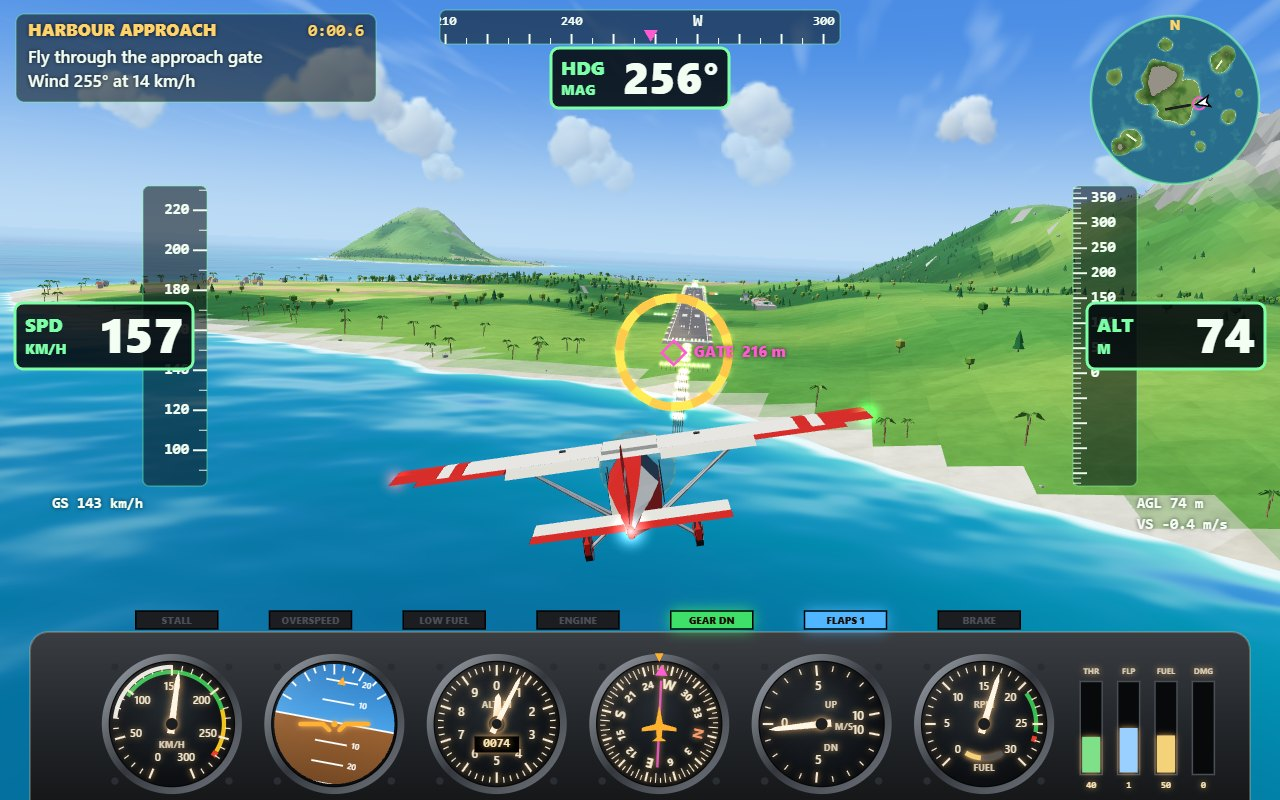
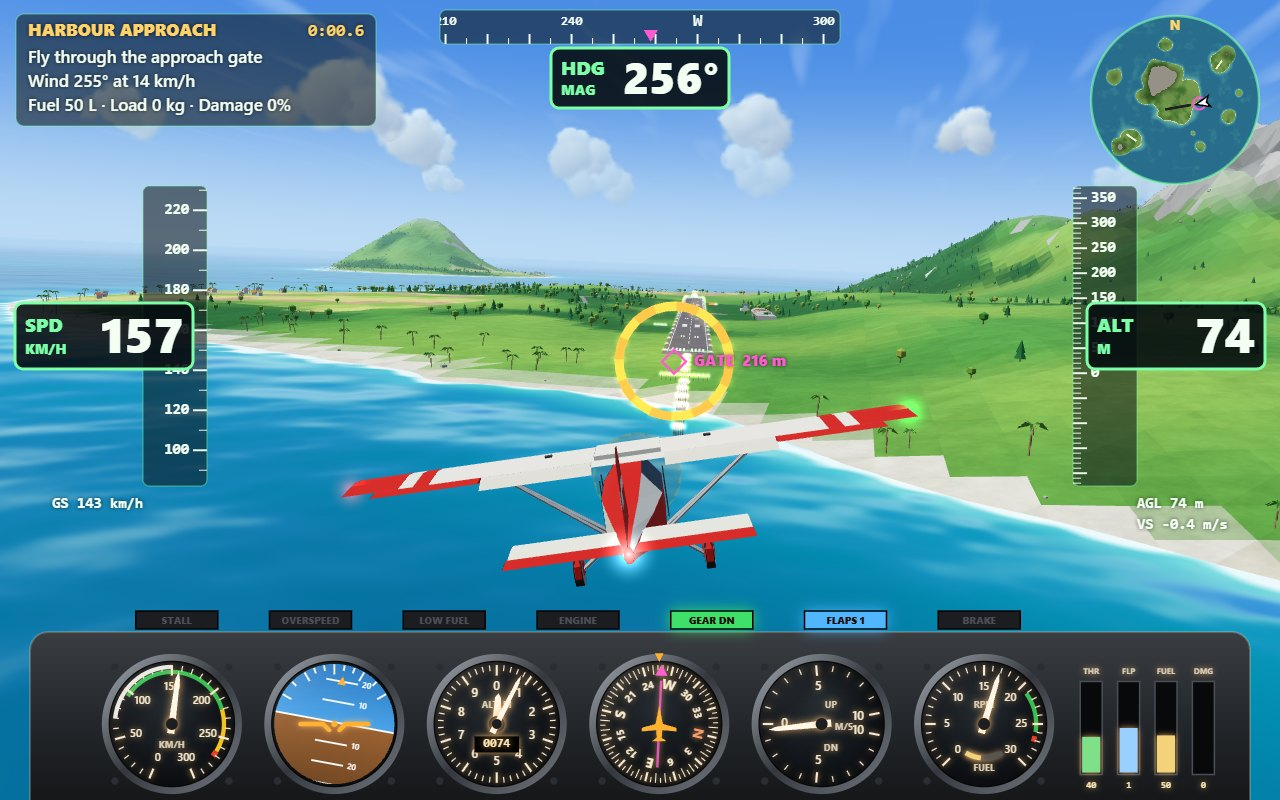
Four in-flight screenshots: approach, crosswind cockpit final, supply drop, ring course
Cockpit view draws the cream-topped cowling and prop disc from a raised eye;
mission card adds fuel, load and damage; closer chase camera; larger cargo
parachute; landing autopilot moves to tools/ (only the flight sim uses it).

diff --git a/game/src/shots.js b/game/src/shots.js
@@ -1,44 +1,47 @@
 // Screenshot scenes behind ?shot=<name>: a real mission placed and stepped forward deterministically.
-import { DEG, quatFromAttitude, quatRotate, scale } from './math3d.js';
+import { DEG, attitudeOf, quatFromAttitude, quatRotate, scale } from './math3d.js';
 import { MISSIONS, approachGeometry, glidePathPoint } from './mission-catalog.js';
-import { landingAutopilot } from './autopilot.js';
+import { newCrate } from './crate-drop.js';
 
 const FRAME = 1 / 60;
 
-export function stageShot(name, { game, camera, world, simulate, startMissionAt, finishSortie }) {
-	const ac = () => game.ac, index = (id) => MISSIONS.findIndex((m) => m.id === id), start = (id) => startMissionAt(index(id));
+export function stageShot(name, { game, camera, world, simulate, startMissionAt }) {
+	const ac = () => game.ac, start = (id) => startMissionAt(MISSIONS.findIndex((m) => m.id === id)) || game.run;
 	const place = (pos, heading, pitch, bank, speed, props) => {
 		Object.assign(ac(), { pos: [...pos], q: quatFromAttitude(heading * DEG, pitch * DEG, bank * DEG), ...props });
 		ac().vel = scale(quatRotate(ac().q, [0, 0, -1]), speed);
 	};
-	const fly = (seconds, input, view = () => camera.follow(ac(), FRAME, null, world.terrain.heightAt)) => {
-		for (let t = 0; t < seconds && (!game.run || game.run.status === 'running'); t += FRAME) {
-			simulate(FRAME, typeof input === 'function' ? input() : input);
-			view();
+	const fly = (seconds, input) => {
+		for (let t = 0; t < seconds; t += FRAME) {
+			simulate(FRAME, typeof input === 'function' ? input(attitudeOf(ac().q)) : input);
+			camera.follow(ac(), FRAME, null, world.terrain.heightAt);
 		}
 	};
 	game.time = 40;
-	if (name === 'board') {
-		Object.assign(game, { selected: index('mail'), loadouts: { mail: { fuel: 70, cargo: 120 } }, best: { approach: 'gold', rings: 'silver', drop: 'bronze', shortfield: 'silver' } });
-		camera.orbitAngle = 2.2;
-		fly(1, { pitch: 0, roll: 0, yaw: 0, throttleSet: 0.05 }, () => camera.orbit(ac().pos, 24, 3, FRAME, 0.1, -1.8, 10));
-	} else if (name === 'cockpit') {
-		start('shortfield');
-		const geo = approachGeometry('gull', 1), p = glidePathPoint(geo, 640, 50);
+	if (name === 'cockpit') {
+		const run = start('crosswind'), geo = run.geo, p = glidePathPoint(geo, 330, 300);
 		camera.mode = 'cockpit';
-		place([p[0], p[1] + 3, p[2]], geo.heading + 2, -2, 4, 31, { throttle: 0.34, flaps: 2, flapAngle: 1 });
-		fly(0.8, { pitch: 0.05, roll: 0, yaw: 0 });
-	} else if (name === 'debrief') {
-		start('approach');
-		const geo = approachGeometry('port', -1);
-		place(glidePathPoint(geo, 1300, 300), geo.heading, 0, 0, 48.5, { throttle: 0.3, flaps: 2, flapAngle: 1 });
-		fly(120, () => landingAutopilot(ac(), geo, { flareAgl: 4, sink: 2, offset: 2.4 }), () => {});
-		camera.orbitAngle = 0.6;
-		camera.orbit(ac().pos, 30, 7, 1, 0.1);
-		finishSortie();
+		place(p, geo.heading + 15, -1, 2, 31, { throttle: 0.3, flaps: 2, flapAngle: 1, fuel: 38 });
+		ac().vel = scale(geo.dir, 30);
+		Object.assign(run, { time: 74, waypoint: { pos: geo.threshold, label: 'THRESHOLD' } });
+		run.gate.passed = true;
+		fly(0.5, { pitch: 0.02, roll: -0.05, yaw: 0 });
+	} else if (name === 'drop') {
+		const run = start('drop'), t = run.targets[0].pos, along = (from, deg, r, y) => [from[0] + Math.sin(deg * DEG) * r, y, from[2] - Math.cos(deg * DEG) * r];
+		place(along(t, 6, 280, t[1] + 72), 205, -1, -10, 36, { throttle: 0.45, flaps: 1, fuel: 47, cargo: 135 });
+		run.crates.push({ ...newCrate(ac()), pos: along(ac().pos, 191, 70, t[1] + 64), vel: [1, -7, 1], t: 6, chute: 1 });
+		run.cratesLeft--;
+		run.time = 96;
+		fly(0.5, { pitch: 0.05, roll: -0.05, yaw: 0 });
+	} else if (name === 'rings') {
+		const run = start('rings'), i = 9, { pos: r, normal: n } = run.rings[i], h = Math.atan2(n[0], -n[2]) / DEG;
+		run.rings.slice(0, i).forEach((g) => (g.passed = true));
+		Object.assign(run, { ringIndex: i, time: 12 * i, waypoint: { pos: r, label: `RING ${i + 1}` } });
+		place([r[0] - n[0] * 190 + n[2] * 9, r[1] - 3, r[2] - n[2] * 190 - n[0] * 9], h + 3, 1, 14, 52, { throttle: 0.8, fuel: 52 });
+		fly(0.5, { pitch: 0.05, roll: 0, yaw: 0 });
+		Object.assign(camera, { lookYaw: 0.3, offset: null }).follow(ac(), FRAME, { looking: true, lookDx: 0, lookDy: 0 }, world.terrain.heightAt);
 	} else {
-		start('approach');
-		const geo = approachGeometry('port', -1), p = glidePathPoint(geo, 720, 300);
+		const geo = start('approach').geo, p = glidePathPoint(geo, 720, 300);
 		place([p[0] - geo.dir[2] * 6, p[1] + 8, p[2] + geo.dir[0] * 6], geo.heading - 3, -1, -12, 40, { throttle: 0.4 });
 		fly(0.6, { pitch: 0.04, roll: 0, yaw: 0 });
 	}

diff --git a/game/src/aircraft-mesh.js b/game/src/aircraft-mesh.js
@@ -36,38 +36,46 @@ function panel(mb, x0, x1, zf, zt, y, t, top, bottom = top) {
 	}
 }
 
-function buildBody(mb) {
-	const side = (glass) => [CREAM, RED, RED, CREAM, RED, RED, RED, RED].map((c, k) => (glass && (k === 0 || k === 3) ? GLASS : c));
-	const front = [CREAM, GLASS, GLASS, CREAM, RED, NAVY, NAVY, RED];
-	mb.loft([
-		{ z: -3.35, w: 0.42, h: 0.42, y: 0.05, color: RED }, { z: -2.6, w: 0.56, h: 0.56, y: 0.08, color: RED },
-		{ z: -1.7, w: 0.62, h: 0.7, y: 0.2, colors: front }, { z: -1.0, w: 0.64, h: 0.84, y: 0.3, colors: side(true) },
-		{ z: 0.1, w: 0.63, h: 0.82, y: 0.3, colors: side(true) }, { z: 0.5, w: 0.62, h: 0.8, y: 0.3, colors: side(false) },
-		{ z: 1.7, w: 0.42, h: 0.52, y: 0.38, colors: side(false) }, { z: 3.3, w: 0.18, h: 0.26, y: 0.58, colors: side(false) },
-		{ z: 3.95, w: 0.08, h: 0.14, y: 0.62, color: RED },
-	]);
+function buildNose(mb) {
+	const top = [RED, CREAM, CREAM, RED, RED, RED, RED, RED];
+	mb.loft([{ z: -3.35, w: 0.42, h: 0.42, y: 0.05, color: RED, colors: top }, { z: -2.6, w: 0.56, h: 0.56, y: 0.08, colors: top }, { z: -1.7, w: 0.62, h: 0.7, y: 0.2, color: DARK }]);
 	for (let k = 0; k < 4; k++) mb.box(0, 0.63, -2.75 + k * 0.17, 0.42, 0.03, 0.06, DARK);
 	mb.box(0, -0.5, -2.65, 0.36, 0.14, 0.4, DARK);
-	for (const s of [-1, 1]) {
-		mb.box(s * 0.45, -0.38, -2.3, 0.1, 0.1, 0.5, DARK);
-		for (const z of [-0.42, -1.02]) mb.box(s * 0.63, 0.32, z, 0.02, 0.9, 0.025, DARK);
-		mb.box(s * 0.7, -0.45, -0.75, 0.25, 0.04, 0.16, METAL);
-		mb.box(s * 1.6, 1.33, -0.8, 0.14, 0.03, 0.14, DARK);
-	}
+	for (const s of [-1, 1]) mb.box(s * 0.45, -0.38, -2.3, 0.1, 0.1, 0.5, DARK);
+	mb.push(mat4Compose(mat4Translate(0, HINGES.prop.y, -3.35), mat4RotateX(-Math.PI / 2)));
+	mb.frustum(0, 0, 0, 0.3, 0.5, 0, 8, RED);
+	mb.pop();
+}
+
+function buildWing(mb) {
 	[-5.6, -4.5, -4.2, -3.9, 3.9, 4.2, 4.5, 5.6].forEach((x, i, xs) => i < 7 && panel(mb, x, xs[i + 1], -1.35, -0.08, 1.22, 0.2, i % 2 ? CREAM : RED, i % 2 ? UNDER : RED));
 	mb.box(0, 1.28, -0.7, 1.3, 0.1, 1.1, CREAM);
 	panel(mb, -0.7, 0.7, -0.08, 0.35, 1.22, 0.08, CREAM);
 	for (const s of [-1, 1]) {
 		beam(mb, [s * 2.6, 1.12, -0.55], [s * 0.58, -0.32, -0.55], 0.05);
 		beam(mb, [s * 2.4, 1.12, -0.15], [s * 0.58, -0.3, -0.2], 0.04);
+		mb.box(s * 1.6, 1.33, -0.8, 0.14, 0.03, 0.14, DARK);
+	}
+}
+
+function buildBody(mb) {
+	const side = (glass) => [CREAM, RED, RED, CREAM, RED, RED, RED, RED].map((c, k) => (glass && (k === 0 || k === 3) ? GLASS : c));
+	buildNose(mb);
+	buildWing(mb);
+	mb.loft([
+		{ z: -1.7, w: 0.62, h: 0.7, y: 0.2, color: RED, colors: [CREAM, GLASS, GLASS, CREAM, RED, NAVY, NAVY, RED] }, { z: -1.0, w: 0.64, h: 0.84, y: 0.3, colors: side(true) },
+		{ z: 0.1, w: 0.63, h: 0.82, y: 0.3, colors: side(true) }, { z: 0.5, w: 0.62, h: 0.8, y: 0.3, colors: side(false) },
+		{ z: 1.7, w: 0.42, h: 0.52, y: 0.38, colors: side(false) }, { z: 3.3, w: 0.18, h: 0.26, y: 0.58, colors: side(false) },
+		{ z: 3.95, w: 0.08, h: 0.14, y: 0.62, color: RED },
+	]);
+	for (const s of [-1, 1]) {
+		for (const z of [-0.42, -1.02]) mb.box(s * 0.63, 0.32, z, 0.02, 0.9, 0.025, DARK);
+		mb.box(s * 0.7, -0.45, -0.75, 0.25, 0.04, 0.16, METAL);
 	}
 	panel(mb, -1.9, 1.9, 2.75, 3.45, 0.62, 0.1, CREAM);
 	mb.quad([0, 0.75, 2.4], [0, 0.75, 3.5], [0, 1.45, 3.5], [0, 1.42, 2.75], RED);
 	mb.quad([0, 1.42, 2.75], [0, 1.45, 3.5], [0, 1.62, 3.5], [0, 1.6, 2.85], CREAM);
 	mb.quad([0, 1.6, 2.85], [0, 1.62, 3.5], [0, 2.15, 3.5], [0, 2.1, 3.05], RED);
-	mb.push(mat4Compose(mat4Translate(0, HINGES.prop.y, -3.35), mat4RotateX(-Math.PI / 2)));
-	mb.frustum(0, 0, 0, 0.3, 0.5, 0, 8, RED);
-	mb.pop();
 }
 
 function buildGear(mb) {
@@ -102,7 +110,7 @@ export function buildAircraftMeshes() {
 	const surface = (x0, x1, color, zf = -0.08, zt = 0.38, y = 1.22, t = 0.08) => mesh((mb) => panel(mb, x0, x1, zf, zt, y, t, color));
 	const z = HINGES.rudder.z;
 	return {
-		body: mesh(buildBody), gear: mesh(buildGear), blades: mesh(buildBlades), disc: mesh(buildDisc),
+		body: mesh(buildBody), cockpit: mesh(buildNose), gear: mesh(buildGear), blades: mesh(buildBlades), disc: mesh(buildDisc),
 		aileronL: surface(-4.9, -2.85, RED), aileronR: surface(2.85, 4.9, RED), flapL: surface(-2.85, -0.7, FLAP), flapR: surface(0.7, 2.85, FLAP),
 		elevator: surface(-1.9, 1.9, RED, 3.45, 3.9, 0.62, 0.07),
 		rudder: mesh((mb) => {

diff --git a/game/src/scene-render.js b/game/src/scene-render.js
@@ -23,18 +23,17 @@ export class SceneRenderer {
 	}
 
 	drawAircraft(ac, cockpit, time, right, up) {
-		if (cockpit) return;
 		const P = this.plane, S = ac.surfaces, model = mat4FromQuatPos(ac.q, ac.pos), tint = ac.crashed ? [0.42, 0.38, 0.36] : [1, 1, 1];
 		const { wingTrailing: wt, elevator: el, rudder, prop } = HINGES, a = S.aileron * 0.38, f = ac.flapAngle * 0.62, hinge = (h, ang) => about(model, [0, h.y, h.z], mat4RotateX(ang));
 		const parts = [
-			[P.body, model], [P.aileronL, hinge(wt, a)], [P.aileronR, hinge(wt, -a)], [P.flapL, hinge(wt, f)], [P.flapR, hinge(wt, f)],
+			[cockpit ? P.cockpit : P.body, model], [P.aileronL, hinge(wt, a)], [P.aileronR, hinge(wt, -a)], [P.flapL, hinge(wt, f)], [P.flapR, hinge(wt, f)],
 			[P.elevator, hinge(el, -S.elevator * 0.42)], [P.rudder, about(model, [0, 0, rudder.z], mat4RotateY(S.rudder * 0.45))],
 		];
-		if (ac.parts.gear < 100) parts.push([P.gear, model]);
+		if (ac.parts.gear < 100 && !cockpit) parts.push([P.gear, model]);
 		for (const [mesh, m] of parts) this.r.drawMesh(mesh, m, { tint });
 		if (ac.rpm > 500 && !ac.crashed) this.r.drawMesh(P.disc, model, { alpha: 0.28 });
 		else this.r.drawMesh(P.blades, about(model, [0, prop.y, prop.z], mat4RotateZ(ac.propAngle)), { tint });
-		if (ac.crashed) return;
+		if (ac.crashed || cockpit) return;
 		for (const l of NAV_LIGHTS) if (!l.flash || time % 1.2 < 0.12) this.glow.billboard(ac.pos.map((c, i) => c + quatRotate(ac.q, l.p)[i]), l.flash ? 1.1 : 0.5, [...l.c, 0.9], right, up);
 		const g = Math.max(0, this.world.surfaceAt(ac.pos[0], ac.pos[2]).height), agl = ac.pos[1] - g, fw = quatRotate(ac.q, [0, 0, -1]), hf = Math.hypot(fw[0], fw[2]) || 1;
 		if (agl > 160) return;
@@ -55,7 +54,7 @@ export class SceneRenderer {
 	}
 
 	ringGlow(ring, c, right, up, eye) {
-		const R = RING_RADIUS, ax = quatRotate(ring.q, [R, 0, 0]), ay = quatRotate(ring.q, [0, R, 0]), s = Math.max(3.2, length(sub(ring.pos, eye)) * 0.006);
+		const R = RING_RADIUS, ax = quatRotate(ring.q, [R, 0, 0]), ay = quatRotate(ring.q, [0, R, 0]), s = Math.max(3.2, length(sub(ring.pos, eye)) * 0.008);
 		for (let i = 0; i < 20; i++) {
 			const co = Math.cos(i * 0.314), si = Math.sin(i * 0.314);
 			this.glow.billboard(ring.pos.map((p, k) => p + ax[k] * co + ay[k] * si), s, [...c, 0.55], right, up);

diff --git a/game/src/camera.js b/game/src/camera.js
@@ -28,9 +28,9 @@ export class FlightCamera {
 		const fwd = quatRotate(ac.q, [0, 0, -1]);
 		const acUp = quatRotate(ac.q, [0, 1, 0]);
 		if (this.mode === 'cockpit') {
-			this.eye = add(ac.pos, quatRotate(ac.q, [0, 0.82, -0.85]));
+			this.eye = add(ac.pos, quatRotate(ac.q, [0, 1.5, -0.4]));
 			const cy = Math.cos(this.lookYaw), sy = Math.sin(this.lookYaw);
-			const local = [-sy * Math.cos(this.lookPitch), Math.sin(this.lookPitch) - 0.08, -cy * Math.cos(this.lookPitch)];
+			const local = [-sy * Math.cos(this.lookPitch), Math.sin(this.lookPitch) - 0.25, -cy * Math.cos(this.lookPitch)];
 			this.target = add(this.eye, quatRotate(ac.q, local));
 			this.up = acUp;
 			this.fov = 74;
@@ -40,7 +40,7 @@ export class FlightCamera {
 		const dir = normalize(lerp3(flat[0] || flat[2] ? flat : fwd, fwd, 0.4));
 		const cy = Math.cos(this.lookYaw), sy = Math.sin(this.lookYaw);
 		const back = [-(dir[0] * cy - dir[2] * sy), -dir[1], -(dir[0] * sy + dir[2] * cy)];
-		const dist = 19, height = 5.6 + this.lookPitch * 14;
+		const dist = 16, height = 4.8 + this.lookPitch * 14;
 		const desired = madd(scale(back, dist), [0, 1, 0], height);
 		if (!this.offset) this.offset = desired;
 		this.offset = lerp3(this.offset, desired, damp(4.5, dt));

diff --git a/game/src/main.js b/game/src/main.js
@@ -154,7 +154,7 @@ function drawFrame(W, H) {
 	if (!ac.crashed) {
 		const panelTop = drawInstrumentPanel(hud, W, H, s, cockpit);
 		Object.assign(info, {
-			lines: objectiveLines(run, ac), clock: run.def.kind !== 'free' ? formatTime(run.time) : null, waypoint: run.waypoint,
+			lines: [...objectiveLines(run, ac), `Fuel ${Math.round(ac.fuel)} L · Load ${Math.round(ac.cargo)} kg · Damage ${Math.round(s.damage * 100)}%`], clock: run.def.kind !== 'free' ? formatTime(run.time) : null, waypoint: run.waypoint,
 			bugDeg: s.bearing === null ? null : ((s.bearing * 180) / Math.PI + 360) % 360,
 			dropAim: run.def.kind === 'drop' && !ac.onGround && run.cratesLeft > 0 ? predictCrateLanding(ac, world, run.time) : null,
 		});
@@ -239,7 +239,7 @@ Object.defineProperty(window, '__flight', {
 });
 
 if (shotName) {
-	stageShot(shotName, { game, world, camera, effects, startMissionAt, simulate, finishSortie });
+	stageShot(shotName, { game, world, camera, startMissionAt, simulate });
 	const { W, H } = resize();
 	drawFrame(W, H);
 	requestAnimationFrame(() => {

diff --git a/game/src/prop-meshes.js b/game/src/prop-meshes.js
@@ -5,8 +5,8 @@ import { meshOf } from './mesh-builder.js';
 export const buildCrate = () => meshOf((mb) => mb.box(0, 0, 0, 1.4, 1.1, 1.4, [0.62, 0.42, 0.22, 0]).box(0, 0, 0, 1.46, 0.2, 1.46, [0.85, 0.2, 0.15, 0]));
 
 export const buildChute = () => meshOf((mb) => {
-	mb.blob(0, 6, 0, 3.6, 1.8, 3.6, [0.98, 0.5, 0.16, 0.15], 4, 8, [0.95, 0.92, 0.85, 0.1]);
-	for (const [x, z] of [[1.4, 0], [-1.4, 0], [0, 1.4], [0, -1.4]]) mb.box(x, 3, z, 0.06, 5.2, 0.06, [0.9, 0.9, 0.9, 0]);
+	mb.blob(0, 7, 0, 4.6, 2.3, 4.6, [0.98, 0.5, 0.16, 0.15], 4, 8, [0.95, 0.92, 0.85, 0.1]);
+	for (const [x, z] of [[2, 0], [-2, 0], [0, 2], [0, -2]]) mb.box(x, 3.5, z, 0.06, 6.2, 0.06, [0.9, 0.9, 0.9, 0]);
 });
 
 export const buildTargetMarker = () => meshOf((mb) => {
